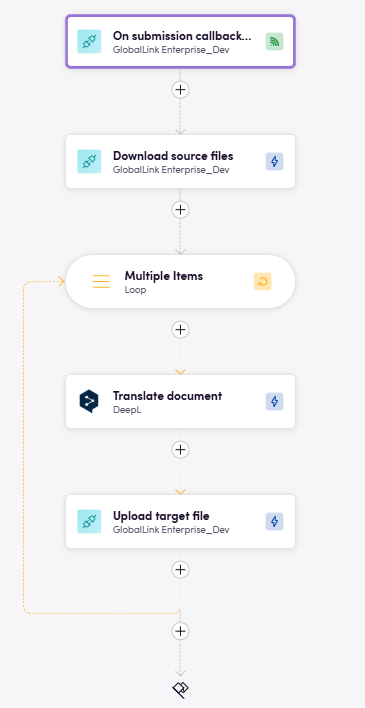
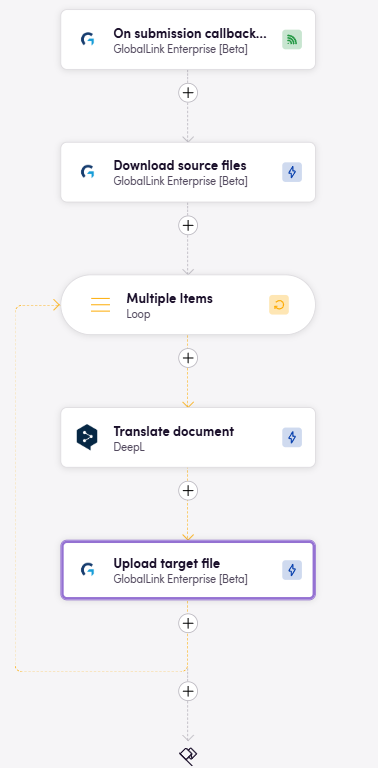
docs: 📚 Update section headings in README for consistency; change "Submission Creation and Source Upload" to "Submission creation and source upload"; change "Translation Processing" to "Translation processing"; update images for better illustration

diff --git a/README.md b/README.md
@@ -95,13 +95,13 @@ This workflow allows for fully automated end-to-end translation processing with 
 
 Here's a simple example of how to set up a translation workflow with `GlobalLink Enterprise` and `Contentful` CMS:
 
-### Bird 1: Submission Creation and Source Upload
+### Bird 1: Submission creation and source upload
 ![Submission creation and source upload](image/README/bird_1-1.png)
 ![Uploading source files](image/README/bird_1-2.png)
 
 This bird handles creating a new submission and uploading the source files for translation.
 
-### Bird 2: Translation Processing
+### Bird 2: Translation processing
 ![Translation with DeepL](image/README/bird_2-1.png)
 
 This bird manages the translation process using DeepL and uploads the translated files back to GlobalLink.
